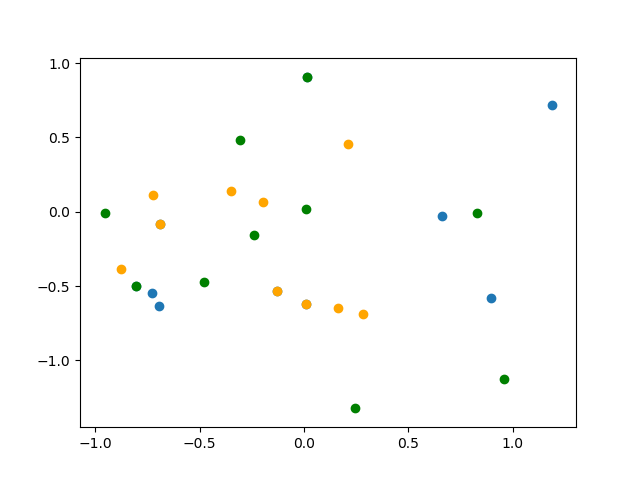
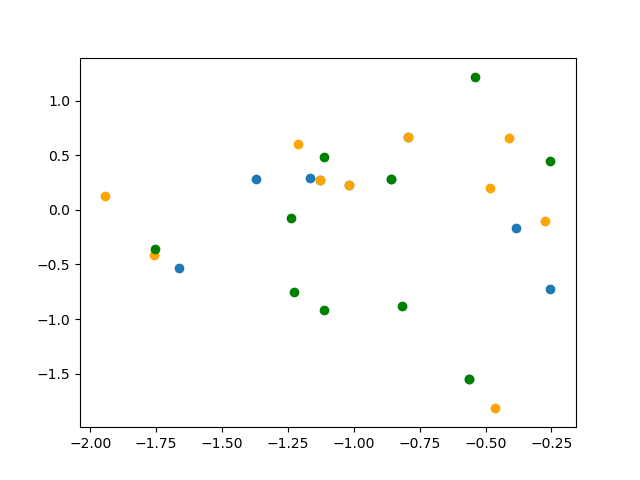
labels

diff --git a/src/5.1.py b/src/5.1.py
@@ -59,6 +59,14 @@ def main():
 
     print(v_proj.shape)
 
+
+    # Setup
+
+    ids = movie_info[:,0].astype(int)
+    movie_names = movie_info[:,1]
+
+
+
     # 1. 10 movies of our choice from the MovieLens dataset 
 
     plt.scatter(x[2:12], y[2:12])
@@ -72,6 +80,7 @@ def main():
     y_pop = []
     top_ratings = []
     top_ratings = max_10.keys()
+    movie_title = []
     print(top_ratings)
     counter = 0
     for i in v_proj:
@@ -79,8 +88,12 @@ def main():
         if counter in top_ratings:
             x_pop.append(i[0])
             y_pop.append(i[1])
+            movie_title.append(movie_names[counter])
+    print(movie_title)
 
     plt.scatter(x_pop, y_pop)
+    for j, txt in enumerate(movie_title):
+        plt.annotate(txt, (x[j], y[j]))
     plt.savefig('popular.png')
     plt.clf()
 
@@ -105,15 +118,14 @@ def main():
     plt.clf()
 
 
-    # 4. All ratings of movies from three genres of your choice
+    # 4. 10 ratings of movies from three genres of your choice
 
 
     ids = movie_info[:,0].astype(int)
     movie_names = movie_info[:,1]
 
-    # Action:
 
-    action = (movie_info[:,2].astype(int))[:90000]
+    action = (movie_info[:,2].astype(int))
     action_movies = dict((k, v) for k, v in zip(ids, action) if v == 1)
     action_ratings_dict = dict((k, ratings[k]) for k in action_movies.keys())
     x_action = []
@@ -158,36 +170,6 @@ def main():
     plt.savefig('action.png')
     plt.clf()
     
-
-    # Comedy:
-
-    
-    # [comedy_ratings.extend(v) for v in comedy_ratings_dict.values()]
-    # plt.hist(comedy_ratings, bins=5)
-    # plt.xlabel('ratings')
-    # plt.ylabel('frequency')
-    # plt.title('Histogram of all ratings of comedies')
-    # plt.savefig('comedy_51dii.png')
-    # plt.clf()
-
-    # # Romance:
-
-    romance = movie_info[:,4].astype(int)
-    romance_movies = dict((k, v) for k, v in zip(ids, romance) if v == 1)
-    romance_ratings_dict = dict((k, ratings[k]) for k in romance_movies.keys())
-    romance_ratings = []
-    [romance_ratings.extend(v) for v in romance_ratings_dict.values()]
-    plt.hist(romance_ratings, bins=5)
-    plt.xlabel('ratings')
-    plt.ylabel('frequency')
-    plt.title('Histogram of all ratings of romance movies')
-    plt.savefig('romance_51diii.png')
-    plt.clf()
-
-
-
-
-   
 
 if __name__ == "__main__":
     main()
